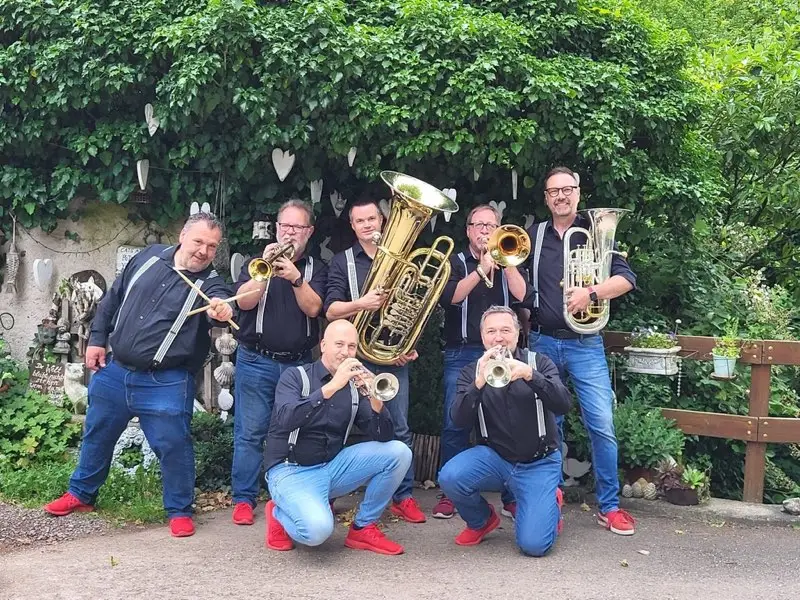
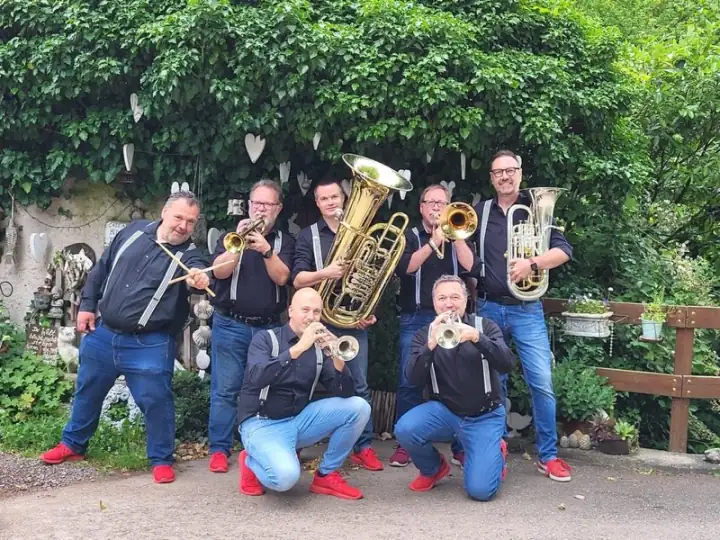
Lesbares Text-Rot, weniger Rot-Akzente, Bilder komprimiert (5,6 MB -> 1,8 MB)
- --color-accent-text #E85254 (>= 4.6:1), Brand-Rot bleibt fuer Flaechen und das N
- Monatsnamen, Kartenhinweis, Repertoire-Titel neutral
- Galerie als WebP mit srcset (600w + Originalbreite), Hero/About/Poster verkleinert
- Shorts mobil als Wisch-Streifen (scroll-snap)

Changed region(s): [[0.9778, 0.0, 1.0, 0.0296]]

diff --git a/index.html b/index.html
@@ -347,7 +347,7 @@
     <figure class="hero__media">
       <picture>
         <source type="image/webp"
-                srcset="assets/photos/hero-promo-mobile.webp 800w, assets/photos/hero-promo.webp 1400w"
+                srcset="assets/photos/hero-promo-mobile.webp 720w, assets/photos/hero-promo.webp 1100w"
                 sizes="(max-width: 720px) 100vw, 50vw">
         <source type="image/jpeg"
                 srcset="assets/photos/hero-promo-mobile.jpg 800w, assets/photos/hero-promo.jpg 1400w"
@@ -541,64 +541,112 @@
       <p class="gallery__subtitle">Eindrücke aus unseren letzten Auftritten.</p>
       <ul class="gallery__grid" role="list">
         <li><figure class="gallery__item gallery__item--wide">
-          <img src="assets/photos/gallery-01.jpg"
-               alt="blech'n'takt live auf einem Marktplatz unter rotem Sonnensegel, das Publikum klatscht."
-               width="1200" height="800" loading="lazy">
+          <picture>
+            <source type="image/webp" sizes="(min-width: 720px) 66vw, 100vw"
+                    srcset="assets/photos/gallery-01-600.webp 600w, assets/photos/gallery-01-1200.webp 1200w">
+            <img src="assets/photos/gallery-01.jpg"
+                 alt="blech'n'takt live auf einem Marktplatz unter rotem Sonnensegel, das Publikum klatscht."
+                 width="1200" height="800" loading="lazy">
+          </picture>
         </figure></li>
         <li><figure class="gallery__item">
-          <img src="assets/photos/gallery-07.jpg"
-               alt="Open-Air-Auftritt im Park: die ganze Combo mit Trompeten, Posaune, Tuba unter dem BLECH'N'TAKT-Banner."
-               width="1200" height="675" loading="lazy">
+          <picture>
+            <source type="image/webp" sizes="(min-width: 1100px) 290px, (min-width: 720px) 33vw, 50vw"
+                    srcset="assets/photos/gallery-07-600.webp 600w, assets/photos/gallery-07-1200.webp 1200w">
+            <img src="assets/photos/gallery-07.jpg"
+                 alt="Open-Air-Auftritt im Park: die ganze Combo mit Trompeten, Posaune, Tuba unter dem BLECH'N'TAKT-Banner."
+                 width="1200" height="675" loading="lazy">
+          </picture>
         </figure></li>
         <li><figure class="gallery__item">
-          <img src="assets/photos/gallery-02.jpg"
-               alt="blech'n'takt im Pavillon, das Publikum jubelt und applaudiert während des Auftritts."
-               width="1200" height="900" loading="lazy">
+          <picture>
+            <source type="image/webp" sizes="(min-width: 1100px) 290px, (min-width: 720px) 33vw, 50vw"
+                    srcset="assets/photos/gallery-02-600.webp 600w, assets/photos/gallery-02-1200.webp 1200w">
+            <img src="assets/photos/gallery-02.jpg"
+                 alt="blech'n'takt im Pavillon, das Publikum jubelt und applaudiert während des Auftritts."
+                 width="1200" height="900" loading="lazy">
+          </picture>
         </figure></li>
         <li><figure class="gallery__item">
-          <img src="assets/photos/gallery-08.jpg"
-               alt="Detail-Aufnahme von Tuba, Euphonium und Posaune in goldenem Bühnenlicht beim Musikverein Maleck."
-               width="900" height="1200" loading="lazy">
+          <picture>
+            <source type="image/webp" sizes="(min-width: 1100px) 290px, (min-width: 720px) 33vw, 50vw"
+                    srcset="assets/photos/gallery-08-600.webp 600w, assets/photos/gallery-08-900.webp 900w">
+            <img src="assets/photos/gallery-08.jpg"
+                 alt="Detail-Aufnahme von Tuba, Euphonium und Posaune in goldenem Bühnenlicht beim Musikverein Maleck."
+                 width="900" height="1200" loading="lazy">
+          </picture>
         </figure></li>
         <li><figure class="gallery__item">
-          <img src="assets/photos/gallery-03.jpg"
-               alt="Die Combo auf einer Bühne unter Holzdach, pinkes und violettes Bühnenlicht, alle stehen mit Instrumenten."
-               width="1200" height="900" loading="lazy">
+          <picture>
+            <source type="image/webp" sizes="(min-width: 1100px) 290px, (min-width: 720px) 33vw, 50vw"
+                    srcset="assets/photos/gallery-03-600.webp 600w, assets/photos/gallery-03-1200.webp 1200w">
+            <img src="assets/photos/gallery-03.jpg"
+                 alt="Die Combo auf einer Bühne unter Holzdach, pinkes und violettes Bühnenlicht, alle stehen mit Instrumenten."
+                 width="1200" height="900" loading="lazy">
+          </picture>
         </figure></li>
         <li><figure class="gallery__item">
-          <img src="assets/photos/gallery-11.jpg"
-               alt="Unser Tontechniker am Mischpult mit Kopfhörern, konzentriert beim Mischen während eines Open-Air-Auftritts."
-               width="900" height="1200" loading="lazy">
+          <picture>
+            <source type="image/webp" sizes="(min-width: 1100px) 290px, (min-width: 720px) 33vw, 50vw"
+                    srcset="assets/photos/gallery-11-600.webp 600w, assets/photos/gallery-11-900.webp 900w">
+            <img src="assets/photos/gallery-11.jpg"
+                 alt="Unser Tontechniker am Mischpult mit Kopfhörern, konzentriert beim Mischen während eines Open-Air-Auftritts."
+                 width="900" height="1200" loading="lazy">
+          </picture>
         </figure></li>
         <li><figure class="gallery__item">
-          <img src="assets/photos/gallery-04.jpg"
-               alt="Open-Air-Auftritt vor Roséli-Banner, Posaune im Vordergrund, rote Schuhe deutlich sichtbar."
-               width="1200" height="1600" loading="lazy">
+          <picture>
+            <source type="image/webp" sizes="(min-width: 1100px) 290px, (min-width: 720px) 33vw, 50vw"
+                    srcset="assets/photos/gallery-04-600.webp 600w, assets/photos/gallery-04-900.webp 900w">
+            <img src="assets/photos/gallery-04.jpg"
+                 alt="Open-Air-Auftritt vor Roséli-Banner, Posaune im Vordergrund, rote Schuhe deutlich sichtbar."
+                 width="1200" height="1600" loading="lazy">
+          </picture>
         </figure></li>
         <li><figure class="gallery__item">
-          <img src="assets/photos/gallery-10.jpg"
-               alt="Drei Trompeter sitzen nebeneinander beim Auftritt im Festzelt, schwarzer Look mit Hosenträgern."
-               width="900" height="1200" loading="lazy">
+          <picture>
+            <source type="image/webp" sizes="(min-width: 1100px) 290px, (min-width: 720px) 33vw, 50vw"
+                    srcset="assets/photos/gallery-10-600.webp 600w, assets/photos/gallery-10-900.webp 900w">
+            <img src="assets/photos/gallery-10.jpg"
+                 alt="Drei Trompeter sitzen nebeneinander beim Auftritt im Festzelt, schwarzer Look mit Hosenträgern."
+                 width="900" height="1200" loading="lazy">
+          </picture>
         </figure></li>
         <li><figure class="gallery__item">
-          <img src="assets/photos/gallery-12.jpg"
-               alt="Unser Tontechniker während eines Auftritts vor Festzelt-Publikum, Bierbänke im Hintergrund."
-               width="900" height="1200" loading="lazy">
+          <picture>
+            <source type="image/webp" sizes="(min-width: 1100px) 290px, (min-width: 720px) 33vw, 50vw"
+                    srcset="assets/photos/gallery-12-600.webp 600w, assets/photos/gallery-12-900.webp 900w">
+            <img src="assets/photos/gallery-12.jpg"
+                 alt="Unser Tontechniker während eines Auftritts vor Festzelt-Publikum, Bierbänke im Hintergrund."
+                 width="900" height="1200" loading="lazy">
+          </picture>
         </figure></li>
         <li><figure class="gallery__item">
-          <img src="assets/photos/gallery-09.jpg"
-               alt="Tobi lachend am Schlagzeug, Hosenträger und schwarzes Hemd, Festzelt-Bühne."
-               width="900" height="1200" loading="lazy">
+          <picture>
+            <source type="image/webp" sizes="(min-width: 1100px) 290px, (min-width: 720px) 33vw, 50vw"
+                    srcset="assets/photos/gallery-09-600.webp 600w, assets/photos/gallery-09-900.webp 900w">
+            <img src="assets/photos/gallery-09.jpg"
+                 alt="Tobi lachend am Schlagzeug, Hosenträger und schwarzes Hemd, Festzelt-Bühne."
+                 width="900" height="1200" loading="lazy">
+          </picture>
         </figure></li>
         <li><figure class="gallery__item">
-          <img src="assets/photos/gallery-05.jpg"
-               alt="Selfie der Combo nach einem Auftritt, alle lachen, grünes Bühnenlicht im Hintergrund."
-               width="1200" height="900" loading="lazy">
+          <picture>
+            <source type="image/webp" sizes="(min-width: 1100px) 290px, (min-width: 720px) 33vw, 50vw"
+                    srcset="assets/photos/gallery-05-600.webp 600w, assets/photos/gallery-05-1200.webp 1200w">
+            <img src="assets/photos/gallery-05.jpg"
+                 alt="Selfie der Combo nach einem Auftritt, alle lachen, grünes Bühnenlicht im Hintergrund."
+                 width="1200" height="900" loading="lazy">
+          </picture>
         </figure></li>
         <li><figure class="gallery__item">
-          <img src="assets/photos/gallery-06.jpg"
-               alt="Tobi am Schlagzeug während eines Auftritts, lila-blaues Bühnenlicht."
-               width="900" height="1200" loading="lazy">
+          <picture>
+            <source type="image/webp" sizes="(min-width: 1100px) 290px, (min-width: 720px) 33vw, 50vw"
+                    srcset="assets/photos/gallery-06-600.webp 600w, assets/photos/gallery-06-1200.webp 1200w">
+            <img src="assets/photos/gallery-06.jpg"
+                 alt="Tobi am Schlagzeug während eines Auftritts, lila-blaues Bühnenlicht."
+                 width="900" height="1200" loading="lazy">
+          </picture>
         </figure></li>
       </ul>
     </div>

diff --git a/styles.css b/styles.css
@@ -98,7 +98,7 @@
 
   --color-accent: #B22325;
   --color-accent-hover: #9a1d1f;
-  --color-accent-text: #B22325;        /* Brand-Konsistenz priorisiert über WCAG-AA */
+  --color-accent-text: #E85254;        /* Lighter brand red for text on dark bg, >= 4.6:1 (WCAG AA) */
 
   --color-text: #ffffff;
   --color-text-muted: rgba(255, 255, 255, 0.85);
@@ -219,7 +219,7 @@ ul { padding: 0; margin: 0; list-style: none; }
    Globale Patterns
    ============================================================ */
 
-.red-n { color: var(--color-accent-text); }
+.red-n { color: var(--color-accent); }  /* logo letter, keeps exact brand red */
 
 .section-title {
   font-size: var(--font-size-h2);
@@ -566,6 +566,24 @@ ul { padding: 0; margin: 0; list-style: none; }
   aspect-ratio: 9/16;
 }
 
+/* Mobile: shorts as horizontal swipe strip instead of a tall stack */
+@media (max-width: 719px) {
+  .videos__grid.videos__grid--portrait {
+    grid-template-columns: none;
+    grid-auto-flow: column;
+    grid-auto-columns: 70%;
+    overflow-x: auto;
+    scroll-snap-type: x mandatory;
+    margin-inline: calc(-1 * var(--space-md));
+    padding: 0 var(--space-md) var(--space-xs);
+    scroll-padding-inline: var(--space-md);
+  }
+  .videos__grid--portrait .video-card--portrait {
+    max-width: none;
+    scroll-snap-align: start;
+  }
+}
+
 .video-card__poster {
   position: absolute;
   inset: 0;
@@ -754,6 +772,7 @@ ul { padding: 0; margin: 0; list-style: none; }
   border-radius: var(--radius-md);
   background: var(--color-bg-card);
 }
+.gallery__item picture { display: block; height: 100%; }
 .gallery__item img {
   width: 100%;
   height: 100%;
@@ -807,7 +826,7 @@ ul { padding: 0; margin: 0; list-style: none; }
   font-weight: 700;
   letter-spacing: 2px;
   text-transform: uppercase;
-  color: var(--color-accent-text);
+  color: var(--color-text-soft);
   margin-bottom: var(--space-md);
   padding-bottom: var(--space-xs);
   border-bottom: 1px solid var(--color-border);
@@ -850,7 +869,7 @@ ul { padding: 0; margin: 0; list-style: none; }
   margin-top: auto;
   margin-bottom: var(--space-xs);
   font-size: var(--font-size-small);
-  color: var(--color-accent-text);
+  color: var(--color-text-soft);
   font-weight: 600;
   letter-spacing: 0.3px;
 }
@@ -883,6 +902,7 @@ ul { padding: 0; margin: 0; list-style: none; }
 /* Past gigs: muted text instead of opacity, so contrast stays readable */
 .gig-card--past .gig-card__date,
 .gig-card--past .gig-card__title { color: var(--color-text-soft); }
+.gig-card--link:hover .gig-card__map-hint { color: var(--color-accent-text); }
 .gig-card--past .gig-card__map-hint { display: none; }
 .gig-card__past-label {
   margin-left: auto;
@@ -953,7 +973,7 @@ ul { padding: 0; margin: 0; list-style: none; }
   align-items: center;
   gap: var(--space-sm);
   font-size: 20px;
-  color: var(--color-accent-text);
+  color: var(--color-text);
   margin-bottom: var(--space-md);
   padding-bottom: var(--space-sm);
   border-bottom: 1px solid var(--color-border);
